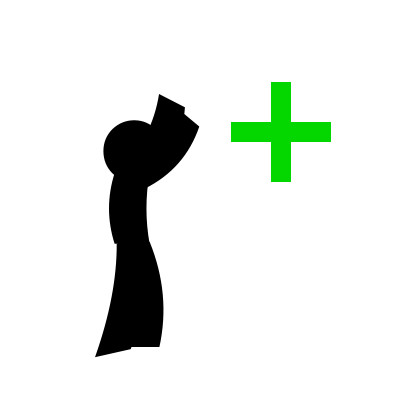
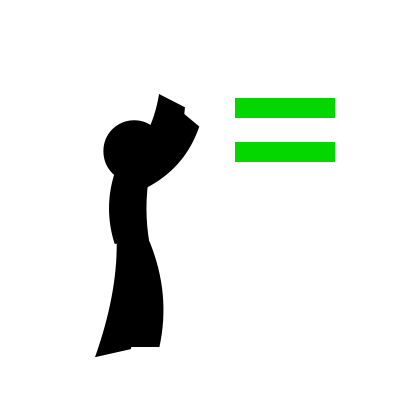
NO MESSAGE SET

Changed region(s): [[0.57, 0.18, 0.84, 0.48]]

diff --git a/readme.md b/readme.md
@@ -624,6 +624,16 @@ This is a game that i made to be an improvement to the games [vex](https://www.n
     - **canAttachToPaths**: allows this block to attach to paths
     - **color**: sets the modulate property
 
+- **jump refresher**: when the player touches this it will reset the players jumps to the max
+ <img src="scenes/blocks/jump refresher/images/1.png" alt="image of block jump refresher" width="50" height="50">
+
+  - canAttachToThings
+  - canAttachToPaths
+  - **settings**:
+    - **canAttachToThings**: allows the block to attach to other things that are not paths, for paths change **canAttachToPaths**
+    - **canAttachToPaths**: allows this block to attach to paths
+    - **color**: sets the modulate property
+
 - **key**: when the player comes in contact with this it will start following the player until ised to unlock a locked box
  <img src="scenes/blocks/key/images/1.png" alt="image of block key" width="26" height="50">
 
